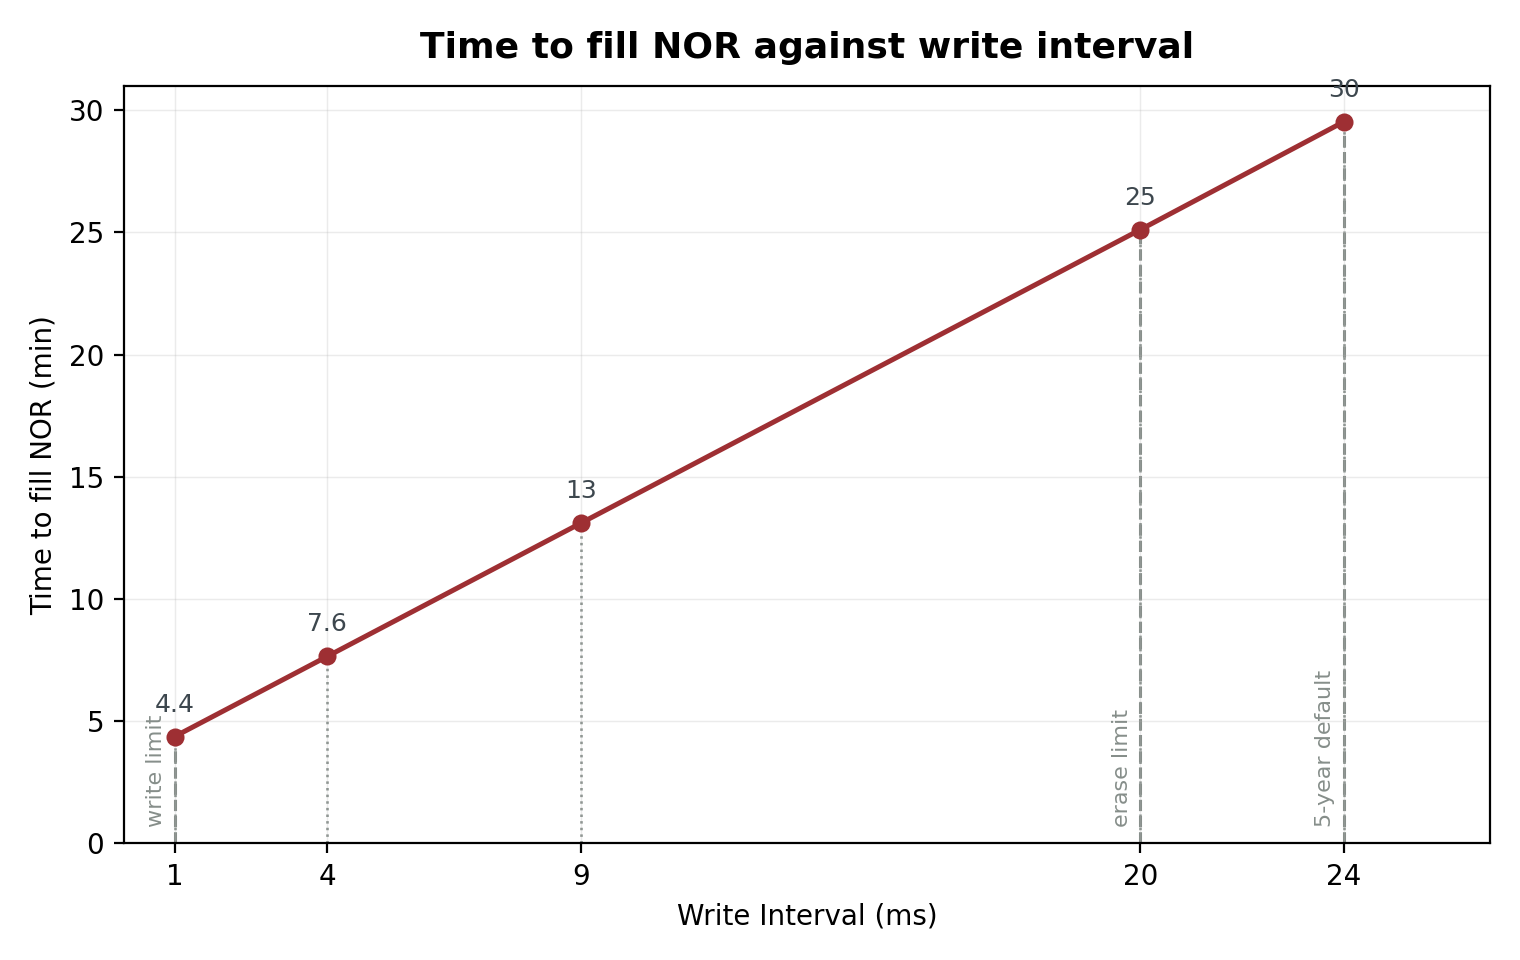
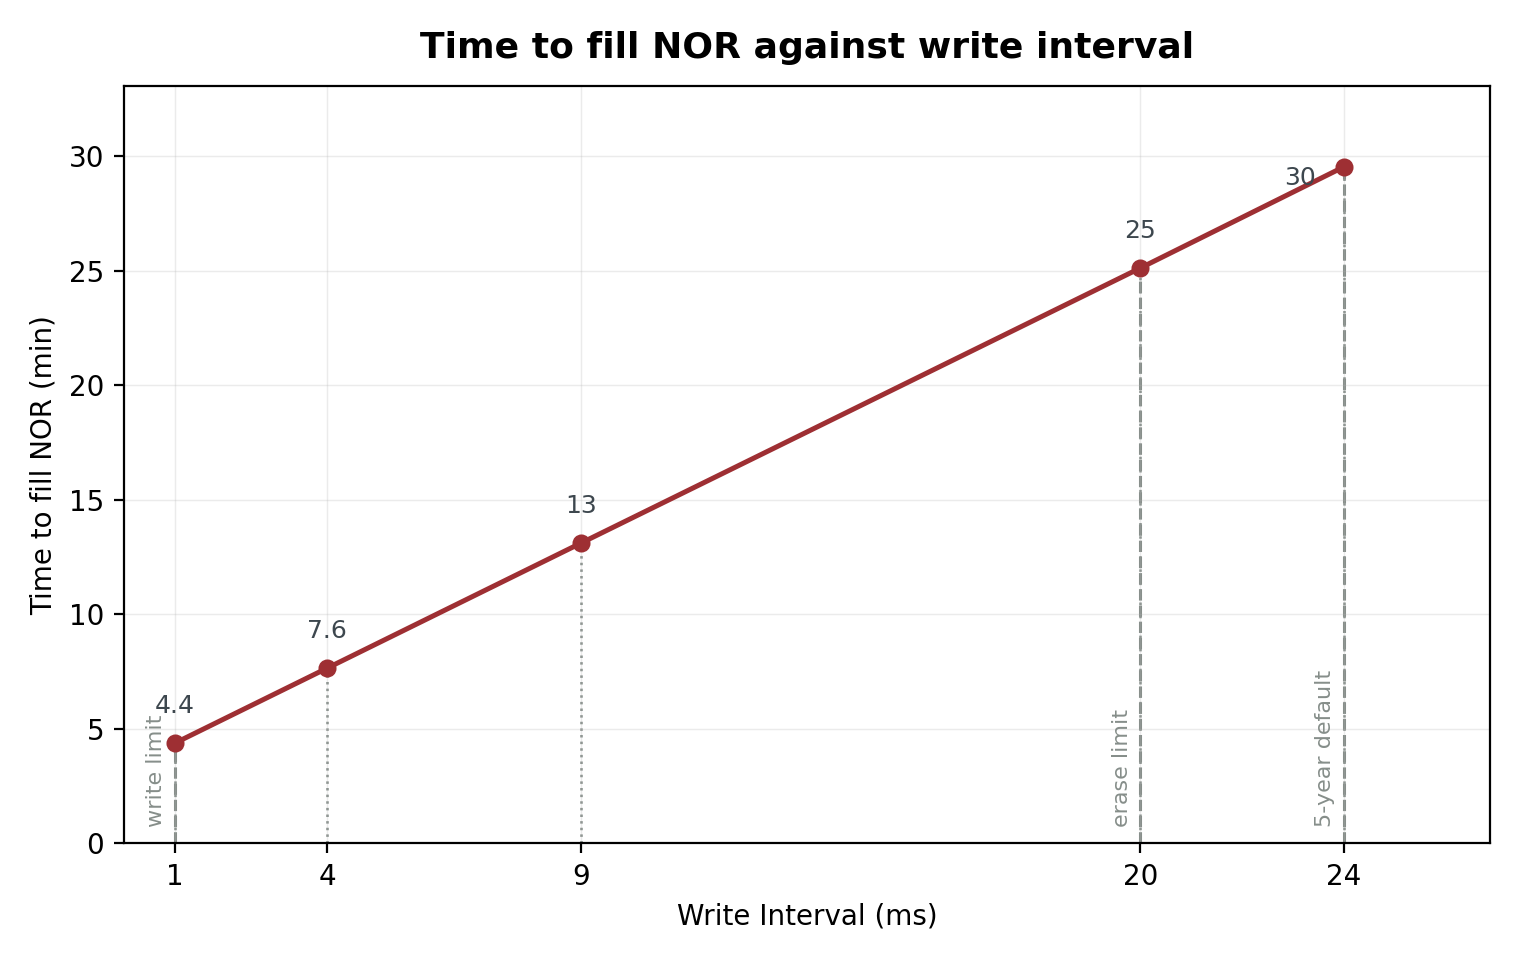
fig5: keep the highest label off the frame
The 24 ms point is the tallest, so a label above it sat on the top border.
That one goes to its left where the axis is empty, and the y limit gains 12%
headroom so nothing rides the frame.

diff --git a/scripts/plot_selftest.py b/scripts/plot_selftest.py
@@ -158,10 +158,16 @@ if r:
     ax.plot(iv, mins, marker=M_COLD, ls="-", color=C_NOR, lw=1.8, ms=5.5, zorder=3)
     for x_, y_ in zip(iv, mins):
         ax.vlines(x_, 0, y_, color=C_GRID, ls=":", lw=.9, zorder=1)
+        # Above the marker, except for the highest point, which would sit on
+        # the frame -- that one goes to its left, where the axis is empty.
+        top_pt = (y_ == max(mins))
         ax.annotate(f"{y_:.0f}" if y_ >= 10 else f"{y_:.1f}", (x_, y_),
-                    textcoords="offset points", xytext=(0, 9), ha="center",
+                    textcoords="offset points",
+                    xytext=((-10, -4) if top_pt else (0, 9)),
+                    ha=("right" if top_pt else "center"),
+                    va=("center" if top_pt else "bottom"),
                     fontsize=9, color="#3d474e")
-    ax.set_ylim(bottom=0)
+    ax.set_ylim(bottom=0, top=max(mins) * 1.12)
     ax.set_xlim(left=0, right=max(max(iv), DEFAULT_MS) * 1.12)
     ax.set_xticks(sorted(set(iv)))
     ax.set_xticklabels([f"{v:g}" for v in sorted(set(iv))])
